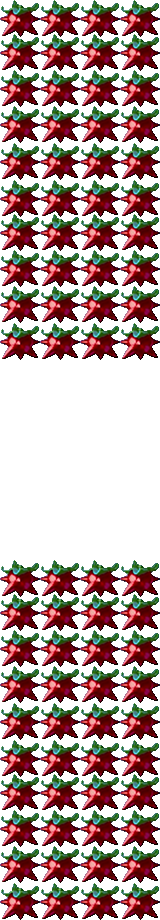
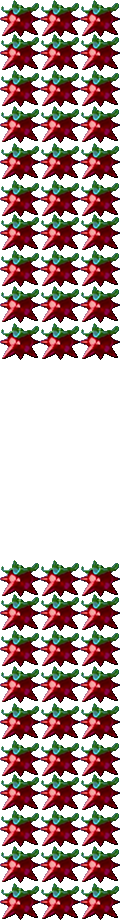
jabrah

diff --git a/Programming-assignment-4/app/scripts/pipe.js b/Programming-assignment-4/app/scripts/pipe.js
@@ -3,8 +3,8 @@ window.Pipe = (function() {
 
 	// All these constants are in em's, multiply by 10 pixels
 	// for 640x420px canvas.
-	var posArr = [-28.5, -24.85, -21.5, -17.85, -14.2, -10.55, -6.9, -3.25, 0.4]; 
-	var SPEED = 100; // * 10 pixels per second
+	var posArr = [-28.5, -24.85, -21.5, -17.85, -14.2, -10.55, -6.9, -3.25, 0.4];
+	var SPEED = 30;// * 10 pixels per second
 	var WIDTH = 16;
 	//var HEIGHT = 30;
 	var INITIAL_POSITION_X = 120;

diff --git a/Programming-assignment-4/app/scripts/player.js b/Programming-assignment-4/app/scripts/player.js
@@ -47,7 +47,6 @@ window.Player = (function() {
 
 		// Update UI
 		this.el.css('transform', 'translate(' + this.pos.x + 'em, ' + this.pos.y + 'em)');
-
 	};
 
 

diff --git a/Programming-assignment-4/app/styles/main.css b/Programming-assignment-4/app/styles/main.css
@@ -12,7 +12,7 @@
 	position: absolute;
 	top: 0;
 	left: 0;
-	width: 16em;
+	width: 12em;
 	height: 92em;
 	background-image: url('../rayman-thickpipe.png');
 }
